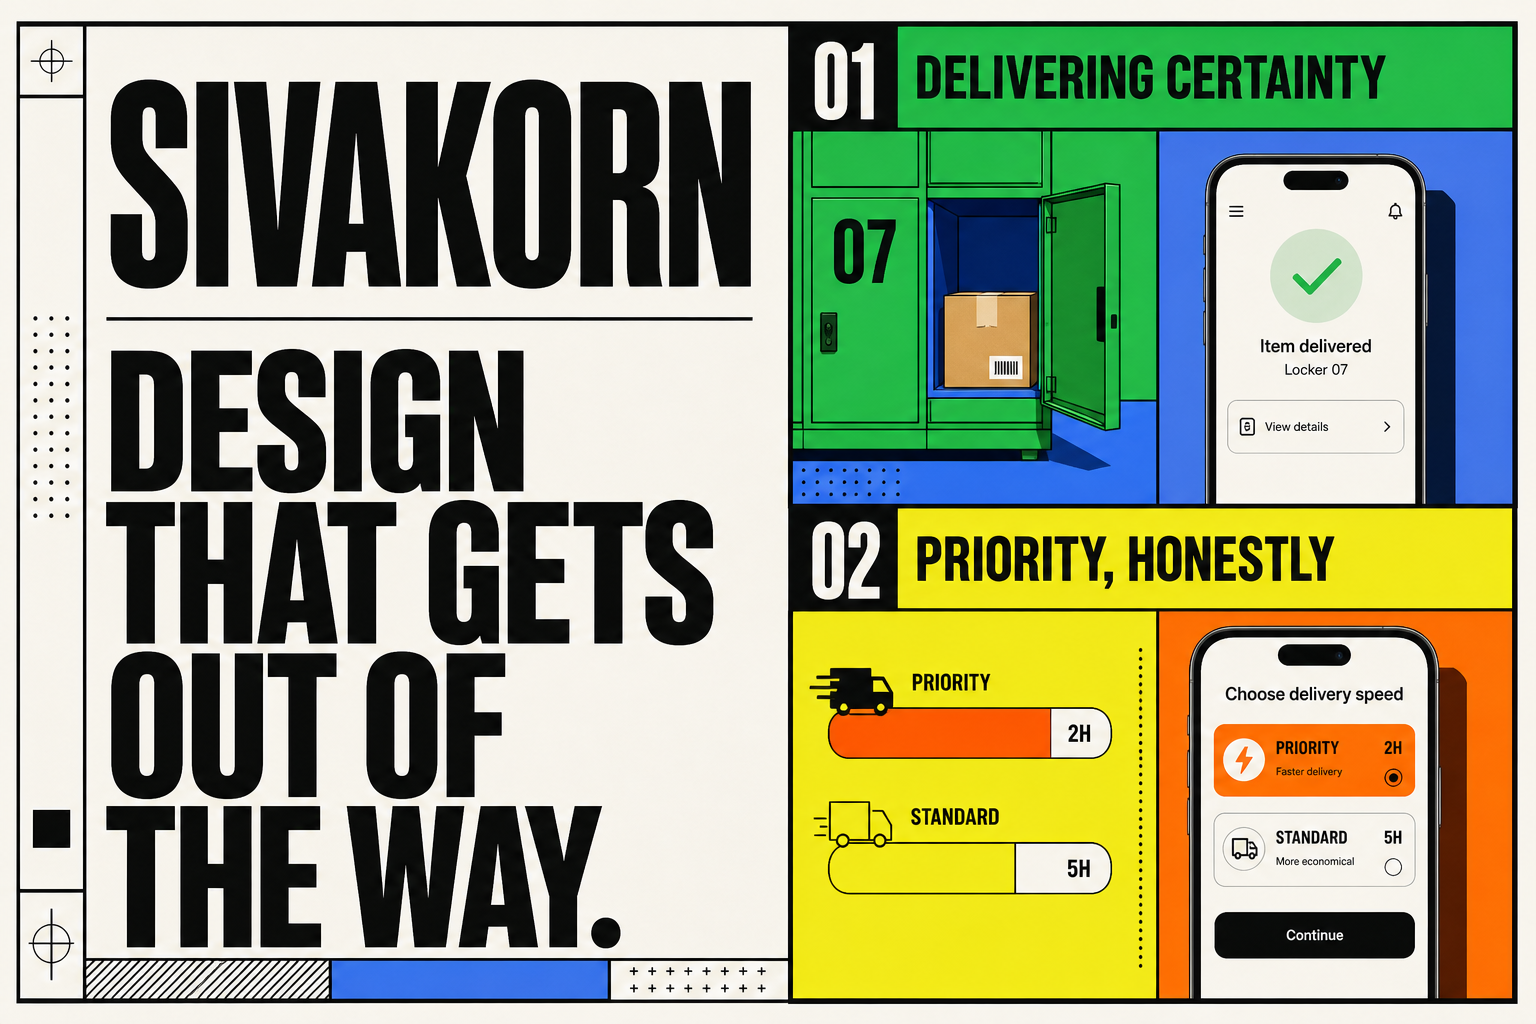
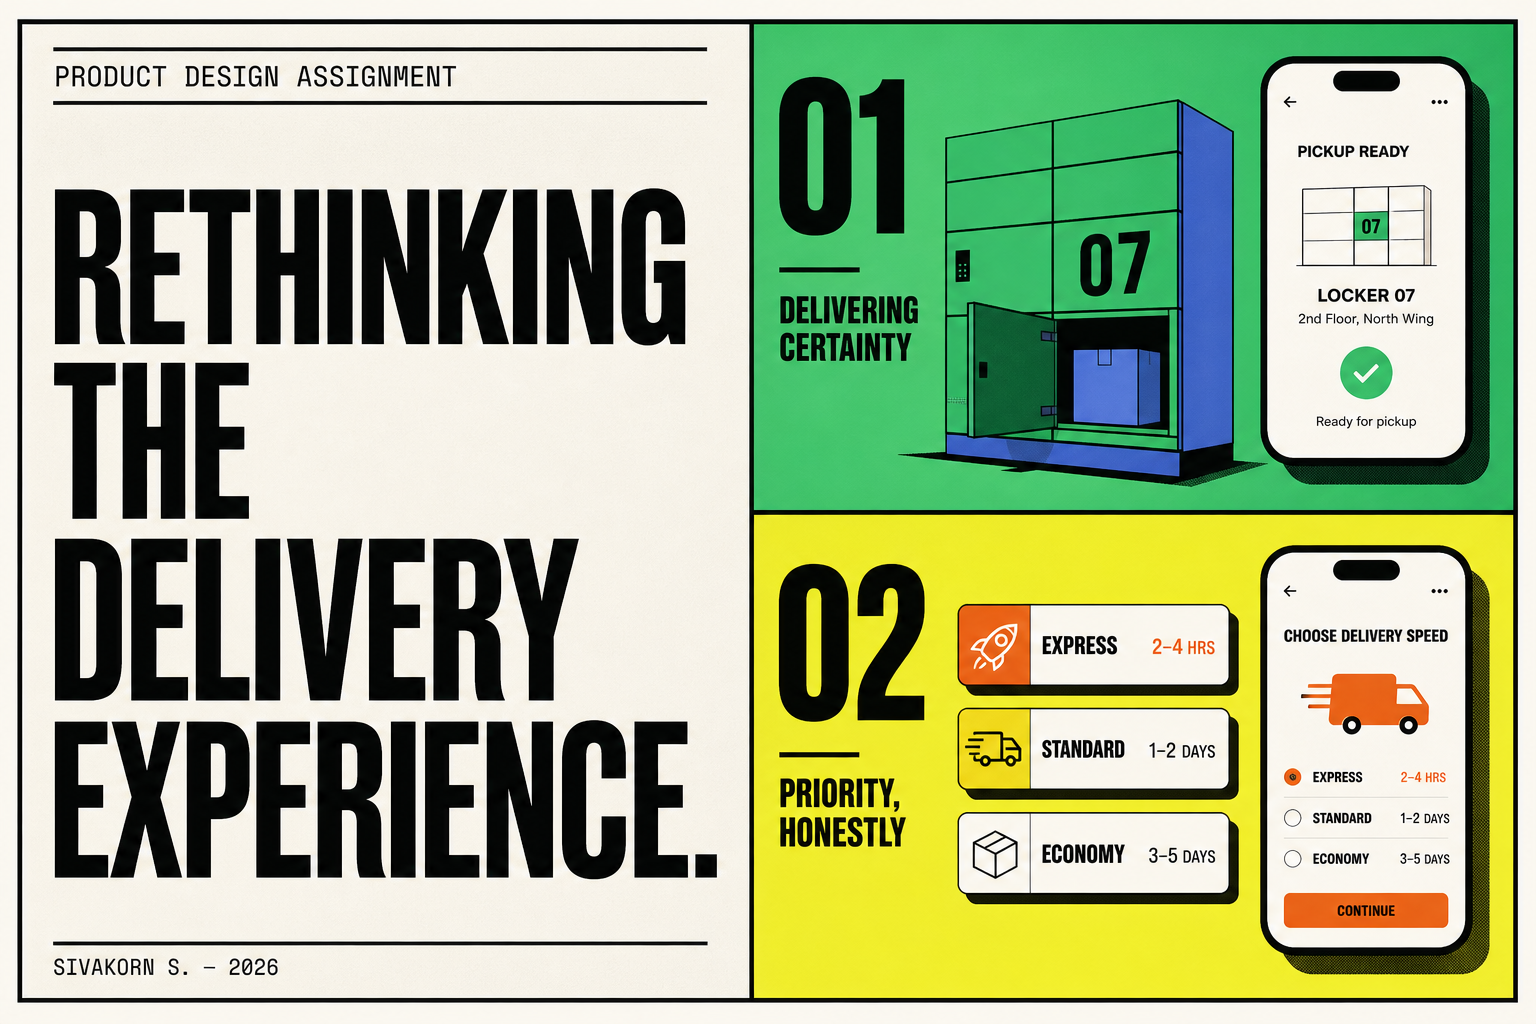
Reframe site as design assignment

diff --git a/app/page.tsx b/app/page.tsx
@@ -375,44 +375,44 @@ export default function Home() {
   return (
     <main className="portfolio-home">
       <header className="portfolio-header">
-        <a className="portfolio-brand" href="/" aria-label="Sivakorn portfolio home"><span>S</span><b>Sivakorn.</b></a>
-        <nav aria-label="Portfolio navigation"><a className="active" href="#work">Work</a><a href="#about">About</a><a href="#contact">Contact</a></nav>
+        <a className="portfolio-brand" href="/" aria-label="Assignment overview"><span>S</span><b>Product design assignment</b></a>
+        <nav aria-label="Assignment navigation"><a className="active" href="#overview">Overview</a><a href="#work">Responses</a><a href="#closing">Summary</a></nav>
       </header>
 
-      <section className="portfolio-hero" id="about">
+      <section className="portfolio-hero" id="overview">
         <div className="home-intro">
-          <div className="availability"><span>Product / UX·UI designer</span><p><i /> Open to 2026 roles · Bangkok, TH</p></div>
-          <h1>Design that gets<br /><em>out of the way.</em></h1>
-          <p>Hi, I’m Sivakorn — I turn messy flows into calm, obvious taps. This is a little exhibition of things I’ve made.</p>
+          <div className="availability"><span>Candidate submission · 2026</span><p><i /> Sivakorn S. · Product designer</p></div>
+          <h1>Rethinking the<br /><em>delivery experience.</em></h1>
+          <p>This assignment explores two connected moments in food delivery: making contactless locker pickup feel certain, and making faster delivery compelling without compromising user trust.</p>
+          <div className="assignment-meta"><span>Format<br /><b>Two responses</b></span><span>Focus<br /><b>UX · UI · Strategy</b></span><span>Context<br /><b>Last-mile delivery</b></span></div>
         </div>
         <div className="home-hero-board" aria-label="Two product design case studies">
-          <div className="home-board-head"><span>SELECTED WORK</span><b>01—02</b></div>
-          <div className="home-board-case locker-case"><span>01</span><div><small>SERVICE DESIGN</small><b>Certainty<br />at handoff.</b></div><i>↘</i></div>
-          <div className="home-board-case priority-case"><span>02</span><div><small>ETHICAL PERSUASION</small><b>Speed<br />without pressure.</b></div><i>→</i></div>
-          <p>Two messy delivery moments.<br />Two calmer ways through.</p>
+          <div className="home-board-head"><span>THE ASSIGNMENT</span><b>02 QUESTIONS</b></div>
+          <div className="home-board-case locker-case"><span>01</span><div><small>LOCKER PICKUP</small><b>Certainty<br />at handoff.</b></div><i>↘</i></div>
+          <div className="home-board-case priority-case"><span>02</span><div><small>PRIORITY DELIVERY</small><b>Speed<br />without pressure.</b></div><i>→</i></div>
+          <p>One delivery ecosystem.<br />Two focused design responses.</p>
         </div>
       </section>
 
-      <div className="ticker" aria-label="Design capabilities"><span>Prototyping</span><i>✦</i><span>Design systems</span><i>✦</i><span>Research</span><i>✦</i><span>A little mischief</span><i>✦</i><span>Product thinking</span><i>✦</i><span>Motion</span></div>
+      <div className="ticker" aria-label="Assignment themes"><span>Last-mile service</span><i>✦</i><span>Physical–digital handoff</span><i>✦</i><span>Accessible recovery</span><i>✦</i><span>Ethical persuasion</span><i>✦</i><span>User trust</span></div>
 
       <section className="portfolio-work" id="work">
-        <div className="work-heading"><p><span>01</span> — The exhibition</p><small>Two problems. Two focused stories. →</small></div>
+        <div className="work-heading"><p><span>02</span> — Assignment responses</p><small>Choose a response to review →</small></div>
         <div className="project-grid">
           <a className="project-card project-locker" href="/work/delivering-certainty">
-            <div className="project-visual"><span className="project-index">01</span><span className="reel-dot">● CASE</span><div className="preview-phone"><small>IT’S IN THE LOCKER</small><div className="preview-panel"><i>▣</i><b>COMPARTMENT<br /><strong>07</strong></b></div><ol><li>Preparing</li><li>Rider picked up</li><li>Dropped in locker</li><li>You collected it</li></ol></div></div>
+            <div className="project-visual"><span className="project-index">QUESTION 01</span><span className="reel-dot">VIEW RESPONSE →</span><div className="preview-phone"><small>IT’S IN THE LOCKER</small><div className="preview-panel"><i>▣</i><b>COMPARTMENT<br /><strong>07</strong></b></div><ol><li>Preparing</li><li>Rider picked up</li><li>Dropped in locker</li><li>You collected it</li></ol></div></div>
             <h2>Delivering Certainty <span>→</span></h2><p>Contactless food lockers, minus the anxiety.</p><div className="project-tags"><span>App</span><span>Service design</span><span>0→1 flow</span></div>
           </a>
 
           <a className="project-card project-priority" href="/work/priority-honestly">
-            <div className="project-visual"><span className="project-index">02</span><span className="reel-dot">● CASE</span><div className="preview-phone"><small>CHOOSE DELIVERY</small><div className="preview-choice selected"><b>Priority</b><strong>15–20 min</strong><i>+฿20</i></div><div className="preview-choice"><b>Normal</b><strong>30–40 min</strong><i>฿15</i></div><div className="preview-choice"><b>Low-cost</b><strong>45–60 min</strong><i>฿0</i></div></div></div>
+            <div className="project-visual"><span className="project-index">QUESTION 02</span><span className="reel-dot">VIEW RESPONSE →</span><div className="preview-phone"><small>CHOOSE DELIVERY</small><div className="preview-choice selected"><b>Priority</b><strong>15–20 min</strong><i>+฿20</i></div><div className="preview-choice"><b>Normal</b><strong>30–40 min</strong><i>฿15</i></div><div className="preview-choice"><b>Low-cost</b><strong>45–60 min</strong><i>฿0</i></div></div></div>
             <h2>Priority, Honestly <span>→</span></h2><p>Faster delivery without dark patterns.</p><div className="project-tags"><span>App</span><span>Strategy</span><span>Persuasion</span></div>
           </a>
         </div>
-        <div className="more-brewing"><b>More brewing</b><span>Case studies · soon</span></div>
       </section>
 
-      <section className="portfolio-contact" id="contact"><small>Say hi</small><a href="mailto:[email redacted]">[email redacted]</a><div><a href="mailto:[email redacted]">Email ↗</a><span>Bangkok · TH</span></div></section>
-      <footer className="portfolio-footer"><span>© 2026 Sivakorn S. — made with too much coffee.</span><nav><a href="#work">Work</a><a href="#about">About</a><a href="#contact">Contact</a></nav></footer>
+      <section className="portfolio-contact" id="closing"><small>Submission summary</small><p>Two responses, one principle: make the next decision clear without taking control away from the user.</p><div><span>Prepared by</span><b>Sivakorn S.</b><span>Product designer · 2026</span></div></section>
+      <footer className="portfolio-footer"><span>Product design assignment · Sivakorn S. · 2026</span><nav><a href="#overview">Overview</a><a href="#work">Responses</a></nav></footer>
     </main>
   );
 }

diff --git a/app/globals.css b/app/globals.css
@@ -225,7 +225,8 @@ footer { min-height:160px; padding:50px max(5vw,56px); display:flex; justify-con
 .portfolio-header nav { padding:0; gap:0; border:1px solid var(--ink); border-radius:0; background:var(--white); }.portfolio-header nav a { min-width:82px; padding:10px 14px; border-right:1px solid var(--ink); border-radius:0; font-size:9px; }.portfolio-header nav a:last-child { border-right:0; }.portfolio-header nav .active { background:var(--acid); color:var(--ink); }
 .portfolio-hero { min-height:760px; padding:72px max(5vw,56px); display:grid; grid-template-columns:1fr .82fr; gap:6vw; align-items:center; }
 .home-intro { min-width:0; }.availability { margin-bottom:38px; }.availability > span { border-color:var(--ink); border-radius:0; background:var(--white); }.availability p { color:var(--ink); }
-.portfolio-hero h1 { margin-bottom:42px; font-size:clamp(72px,7.3vw,126px); line-height:.82; }.portfolio-hero h1 em { display:inline-block; padding:0 .08em .06em; background:var(--acid); color:var(--ink); font-family:var(--font-geist-sans); font-style:italic; font-weight:800; transform:rotate(-1deg); box-shadow:8px 8px 0 var(--blue); }.portfolio-hero .home-intro > p { max-width:620px; margin:0; font-size:18px; line-height:1.5; color:#4c4c48; }
+.portfolio-hero h1 { margin-bottom:42px; font-size:clamp(68px,6.6vw,116px); line-height:.82; }.portfolio-hero h1 em { display:inline-block; padding:0 .08em .06em; background:var(--acid); color:var(--ink); font-family:var(--font-geist-sans); font-style:italic; font-weight:800; transform:rotate(-1deg); box-shadow:8px 8px 0 var(--blue); }.portfolio-hero .home-intro > p { max-width:680px; margin:0; font-size:18px; line-height:1.5; color:#4c4c48; }
+.assignment-meta { max-width:680px; margin-top:38px; padding-top:22px; display:grid; grid-template-columns:repeat(3,1fr); gap:18px; border-top:1px solid var(--ink); font-family:var(--font-geist-mono); font-size:9px; line-height:1.6; text-transform:uppercase; letter-spacing:.06em; }.assignment-meta b { font-family:var(--font-geist-sans); font-size:11px; letter-spacing:0; }
 .home-hero-board { position:relative; min-height:580px; padding:18px; display:grid; grid-template-rows:auto 1fr 1fr auto; gap:12px; background:var(--ink); color:var(--white); transform:rotate(1deg); box-shadow:18px 18px 0 var(--blue); }
 .home-board-head { display:flex; justify-content:space-between; align-items:center; padding:8px 4px 16px; border-bottom:1px solid #555; font-family:var(--font-geist-mono); font-size:9px; letter-spacing:.1em; }.home-board-head b { color:var(--acid); font-size:13px; }
 .home-board-case { min-height:180px; padding:24px; display:grid; grid-template-columns:70px 1fr auto; gap:18px; align-items:center; color:var(--ink); }.home-board-case > span { font-family:var(--font-geist-mono); font-size:12px; }.home-board-case small { display:block; margin-bottom:12px; font-family:var(--font-geist-mono); font-size:8px; letter-spacing:.1em; }.home-board-case b { display:block; font-size:clamp(28px,2.6vw,45px); line-height:.9; letter-spacing:-.055em; }.home-board-case i { font-size:42px; font-style:normal; }.locker-case { background:var(--green); }.priority-case { background:var(--acid); }
@@ -236,7 +237,7 @@ footer { min-height:160px; padding:50px max(5vw,56px); display:flex; justify-con
 .project-index,.reel-dot { top:16px; border:1px solid var(--ink); border-radius:0; background:var(--white); color:var(--ink); font-weight:700; }.project-index { left:16px; }.reel-dot { right:16px; }.project-locker .reel-dot,.project-priority .reel-dot { color:var(--ink); }
 .preview-phone { border-radius:18px 18px 0 0; box-shadow:12px 12px 0 rgba(17,17,15,.22); }.project-card h2 { margin-top:30px; font-size:clamp(30px,3vw,48px); line-height:.95; }.project-card h2 span { color:var(--ink); }.project-card > p { margin-top:12px; font-size:16px; }.project-tags span { border-color:var(--ink); border-radius:0; background:var(--white); color:var(--ink); }
 .more-brewing { height:320px; border:0; border-radius:8px; background:var(--ink); color:var(--white); box-shadow:12px 12px 0 var(--blue); }.more-brewing b { color:var(--acid); font-size:34px; letter-spacing:-.04em; }.more-brewing span { color:#aaa; }
-.portfolio-contact { min-height:360px; border-top:0; background:var(--green); }.portfolio-contact > small { color:var(--ink); }.portfolio-contact > a { font-size:clamp(40px,5.2vw,82px); }.portfolio-contact > div { padding:22px; border:1px solid var(--ink); background:var(--acid); }
+.portfolio-contact { min-height:390px; border-top:0; background:var(--green); }.portfolio-contact > small { color:var(--ink); }.portfolio-contact > p { max-width:980px; margin:0; font-size:clamp(38px,4.8vw,74px); line-height:.98; font-weight:700; letter-spacing:-.055em; }.portfolio-contact > div { min-width:250px; padding:22px; border:1px solid var(--ink); background:var(--acid); }.portfolio-contact > div b { font-family:var(--font-geist-sans); font-size:22px; text-transform:none; letter-spacing:-.03em; }
 .portfolio-footer { margin:0; padding:0 max(5vw,64px); background:var(--ink); border:0; color:var(--white); }
 
 @media (max-width: 1050px) {
@@ -276,10 +277,10 @@ footer { min-height:160px; padding:50px max(5vw,56px); display:flex; justify-con
   .next-case { min-height:220px; padding:52px 20px; }
   .priority-hero { padding-top:48px; gap:40px; }.priority-hero h1 { font-size:clamp(70px,22vw,105px); }.priority-hero-art { min-height:480px; padding:100px 18px 30px; border-radius:170px 170px 16px 16px; }.speed-sticker { width:94px; height:94px; right:22px; top:24px; font-size:10px; }.speed-line { min-height:100px; }
   .portfolio-header { height:68px; padding:0 18px; }.portfolio-header nav a { min-width:auto; padding:8px 10px; font-size:8px; }.portfolio-header nav a:not(.active) { display:none; }
-  .portfolio-hero { min-height:440px; padding:75px 20px 70px; }.availability { align-items:flex-start; flex-direction:column; gap:12px; }.portfolio-hero h1 { font-size:clamp(60px,19vw,92px); line-height:.82; }.portfolio-hero .home-intro > p { font-size:16px; }.home-hero-board { min-height:460px; margin-top:18px; padding:12px; box-shadow:9px 9px 0 var(--blue); }.home-board-case { min-height:145px; padding:18px; grid-template-columns:36px 1fr auto; gap:10px; }.home-board-case b { font-size:30px; }.home-board-case i { font-size:26px; }
+  .portfolio-hero { min-height:440px; padding:75px 20px 70px; }.availability { align-items:flex-start; flex-direction:column; gap:12px; }.portfolio-hero h1 { font-size:clamp(54px,16.5vw,82px); line-height:.84; }.portfolio-hero .home-intro > p { font-size:16px; }.assignment-meta { grid-template-columns:1fr; gap:10px; }.home-hero-board { min-height:460px; margin-top:18px; padding:12px; box-shadow:9px 9px 0 var(--blue); }.home-board-case { min-height:145px; padding:18px; grid-template-columns:36px 1fr auto; gap:10px; }.home-board-case b { font-size:30px; }.home-board-case i { font-size:26px; }
   .ticker { justify-content:flex-start; }
   .portfolio-work { padding:60px 20px 85px; }.work-heading small { display:none; }.project-grid { grid-template-columns:1fr; gap:55px; }.project-visual { height:470px; min-height:0; }.preview-phone { width:68%; }.more-brewing { width:100%; height:280px; }
-  .portfolio-contact { min-height:290px; padding:55px 20px; display:block; }.portfolio-contact > small { display:block; }.portfolio-contact > a { display:block; overflow-wrap:anywhere; font-size:36px; }.portfolio-contact > div { margin-top:35px; }
+  .portfolio-contact { min-height:340px; padding:55px 20px; display:block; }.portfolio-contact > small { display:block; }.portfolio-contact > p { font-size:38px; }.portfolio-contact > div { margin-top:35px; }
   .portfolio-footer { min-height:120px; margin:0 20px; padding:28px 0 40px; }.portfolio-footer nav { flex-direction:row; }
 }
 

diff --git a/app/layout.tsx b/app/layout.tsx
@@ -2,8 +2,8 @@ import type { Metadata } from "next";
 import { headers } from "next/headers";
 import "./globals.css";
 
-const title = "Sivakorn — Product Designer";
-const description = "Product design work by Sivakorn: calm flows, clear choices, and thoughtful digital services.";
+const title = "Delivery Experience — Product Design Assignment";
+const description = "A two-part product design assignment exploring contactless locker pickup and ethical priority delivery.";
 
 export async function generateMetadata(): Promise<Metadata> {
   const incoming = await headers();

diff --git a/README.md b/README.md
@@ -1,10 +1,10 @@
-# Sivakorn — Product Design Portfolio
+# Delivery Experience — Product Design Assignment
 
-A three-page product design portfolio built with vinext and deployed with OpenAI Sites.
+A three-page candidate submission built with vinext and deployed with OpenAI Sites.
 
 ## Pages
 
-- `/` — personal portfolio and selected work
+- `/` — assignment cover and response index
 - `/work/delivering-certainty` — contactless food-locker pickup case study
 - `/work/priority-honestly` — ethical priority-delivery case study
 